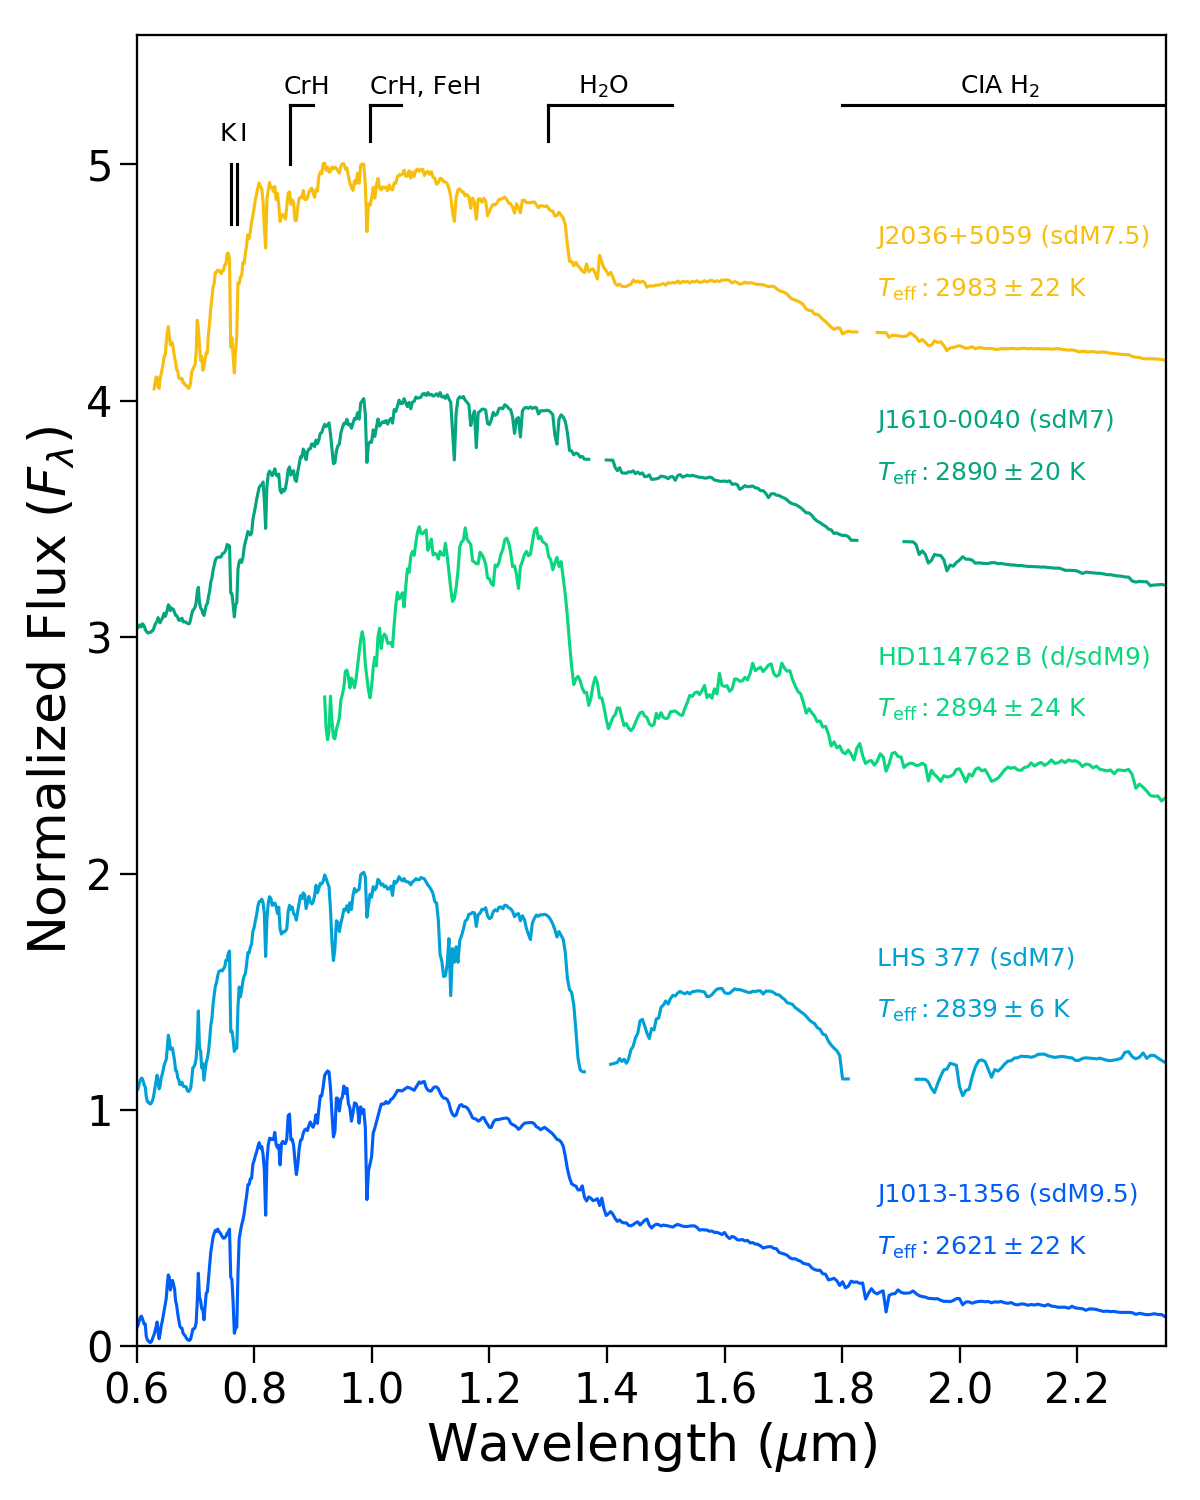
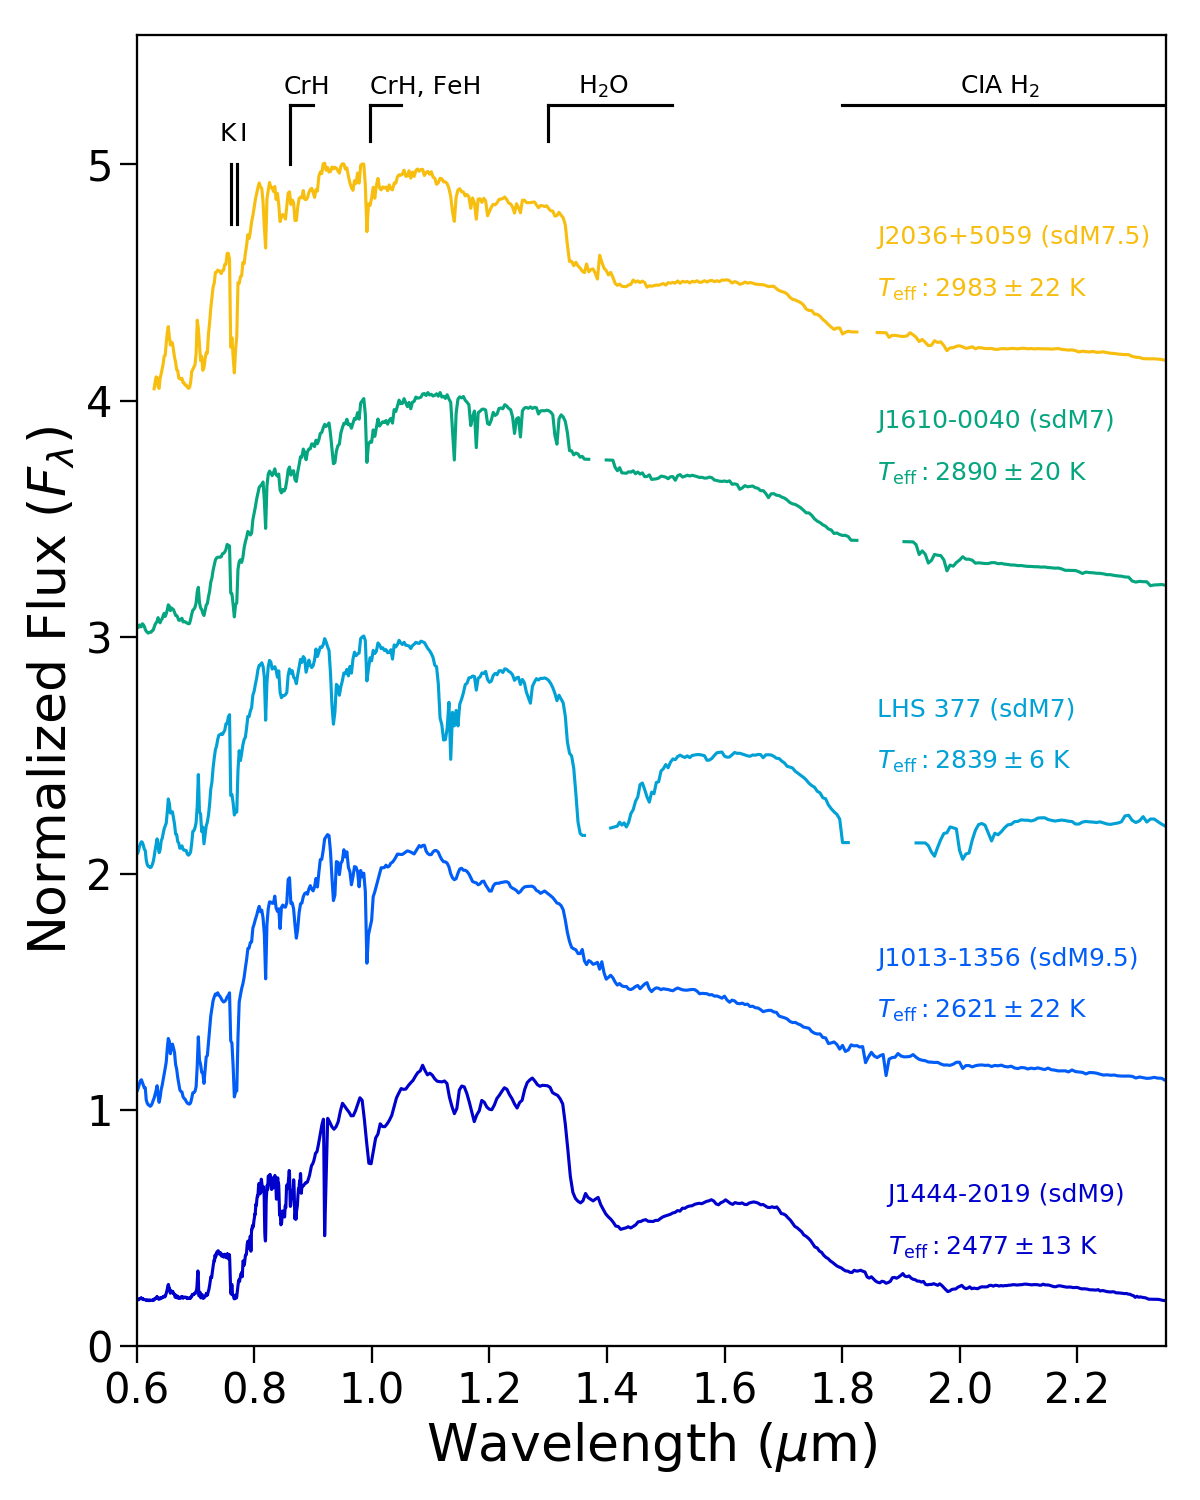
Removed HD114762 B from sample

diff --git a/FullspectraSubdwarfs.py b/FullspectraSubdwarfs.py
@@ -19,8 +19,8 @@ df_0616 = pd.read_csv('Data/Smoothed_data/Eileen_spectra_output/Subdwarfs_correc
 df_1013 = pd.read_csv('Data/Smoothed_data/Eileen_spectra_output/Subdwarfs_corrected/Gaia1013-1356 (M9.5sd) SED_smoothed.txt', sep=" ",
                       comment='#', header=None, names=["w", "f", "err"])
 # df_125614 = pd.read_csv('', sep=" ", comment='#', header=None, names=["w", "f", "err"])
-df_HD = pd.read_csv('Data/Smoothed_data/Eileen_spectra_output/Subdwarfs_corrected/HD114762B (M9sd) SED_smoothed.txt',
-                    sep=" ", comment='#', header=None, names=["w", "f", "err"])
+# df_HD = pd.read_csv('Data/Smoothed_data/Eileen_spectra_output/Subdwarfs_corrected/HD114762B (M9sd) SED_smoothed.txt',
+#                     sep=" ", comment='#', header=None, names=["w", "f", "err"])
 # df_1425 = pd.read_csv('Data/1425+7102 (M8sd) SED.txt', sep=" ", comment='#', header=None, names=["w", "f", "err"])
 df_LHS = pd.read_csv('Data/Smoothed_data/Eileen_spectra_output/Subdwarfs_corrected/Gaia1439+1839 (M7sd) SED_smoothed.txt', sep=" ",
                      comment='#', header=None, names=["w", "f", "err"])
@@ -46,7 +46,7 @@ df_2036 = pd.read_csv('Data/Smoothed_data/Eileen_spectra_output/Subdwarfs_correc
 # -------------------------------------------------------------------------------------
 # ---------------------- Remove Tails ------------------------------------------------
 # -------------------------------------------------------------------------------------
-df_HD = df_HD[(df_HD['w'] > 0.91) & (df_HD['w'] <= 3)]
+# df_HD = df_HD[(df_HD['w'] > 0.91) & (df_HD['w'] <= 3)]
 
 # -------------------------------------------------------------------------------------
 # --------- Normalize the spectra to same as before for 1256 --------------------------
@@ -73,14 +73,14 @@ norm_df_1013 = df_1013['f']/(np.average(norm_region_1013['f']))
 norm_region_LHS = df_LHS[(df_LHS['w'] >= 0.98) & (df_LHS['w'] <= 0.988)]
 norm_df_LHS = df_LHS['f']/(np.average(norm_region_LHS['f']))
 
-# norm_region_1425 = df_1425[(df_1425['w'] >= 0.90) & (df_1425['w'] <= 0.91)] region that works fro 1425 but not HD
+# norm_region_1425 = df_1425[(df_1425['w'] >= 0.90) & (df_1425['w'] <= 0.91)]
 # norm_df_1425 = df_1425['f']/(np.average(norm_region_1425['f']))
 
 norm_region_1610 = df_1610[(df_1610['w'] >= 0.98) & (df_1610['w'] <= 0.988)]
 norm_df_1610 = df_1610['f']/(np.average(norm_region_1610['f']))
 
-norm_region_HD = df_HD[(df_HD['w'] >= 0.98) & (df_HD['w'] <= 0.988)]
-norm_df_HD = df_HD['f']/(np.average(norm_region_HD['f']))
+# norm_region_HD = df_HD[(df_HD['w'] >= 0.98) & (df_HD['w'] <= 0.988)]
+# norm_df_HD = df_HD['f']/(np.average(norm_region_HD['f']))
 
 norm_region_2036 = df_2036[(df_2036['w'] >= 0.98) & (df_2036['w'] <= 0.988)]
 norm_df_2036 = df_2036['f']/(np.average(norm_region_2036['f']))
@@ -92,7 +92,7 @@ norm_df_2036 = df_2036['f']/(np.average(norm_region_2036['f']))
 # --------- Plotting: Comparison of in order of decreasing Teff/ Spt Type -------------
 # -------------------------------------------------------------------------------------
 
-# ------- Not enough detail if in one figure => make two ------------------
+# ------- Not enough detail if in one figure => make two  Ms and Ls------------------
 # ------ Set up figure layout --------
 fig = plt.figure()
 ax1 = fig.add_subplot(111)
@@ -101,7 +101,7 @@ plt.gcf().subplots_adjust(bottom=0.15, left=0.15)
 for axis in ['top', 'bottom', 'left', 'right']:  # Thicken the frame
     ax1.spines[axis].set_linewidth(1.1)
 plt.xlim([0.6, 2.35])
-plt.ylim([0, 5.65])
+plt.ylim([0, 4.65])
 
 # ------ Axes Labels --------
 ax1.tick_params(axis='both', labelsize=20, length=8, width=1.1)
@@ -114,7 +114,6 @@ ax1.plot(df_0532['w'], norm_df_0532, c='indigo')                                
 ax1.plot(df_0616['w'], norm_df_0616 + 1, c='darkviolet')                        # sdL5 1731
 ax1.plot(df_1626['w'], norm_df_1626 + 2, c='#531CF7')                           # sdL4 2158
 ax1.plot(df_1256['w'], norm_df_1256 + 3, c='k')                                 # sdL3.5  2344
-ax1.plot(df_1444['w'], norm_df_1444 + 4, c='mediumblue')                        # sdM9 2359
 # ax1.plot(df_1013['w'], norm_df_1013 + 5, c='#015DF7')                         # sdM9.5 2457
 # ax1.plot(df_LHS['w'], norm_df_LHS + 6, c='#01A1D6')                           # sdM7 2748
 # # ax1.plot(df_1425['w'], norm_df_1425, c='#09D5D6')                           # sdM8 2822      only MIR spectra
@@ -126,62 +125,60 @@ ax1.plot(df_1444['w'], norm_df_1444 + 4, c='mediumblue')                        
 # -------- Label a few features --------------
 KII = pd.DataFrame()
 KII['x'] = [0.76, 0.76]
-KII['y'] = [5, 5.25]
+KII['y'] = [4, 4.25]
 ax1.plot(KII['x'], KII['y'], color='k')
 KII2 = pd.DataFrame()
 KII2['x'] = [0.7699, 0.7699]
-KII2['y'] = [5, 5.25]
+KII2['y'] = [4, 4.25]
 ax1.plot(KII2['x'], KII2['y'], color='k')
-ax1.annotate('K$\,$I', xy=(0.74, 5.3), color='k', fontsize=12)
+ax1.annotate('K$\,$I', xy=(0.74, 4.3), color='k', fontsize=12)
 
 CrH = pd.DataFrame()
 CrH['x'] = [0.8611, 0.9]
-CrH['y'] = [5.25, 5.25]
+CrH['y'] = [4.25, 4.25]
 ax1.plot(CrH['x'], CrH['y'], color='k')
 CrHd = pd.DataFrame()
 CrHd['x'] = [0.8611, 0.8611]
-CrHd['y'] = [5, 5.25]
+CrHd['y'] = [4, 4.25]
 ax1.plot(CrHd['x'], CrHd['y'], color='k')
-ax1.annotate('CrH', xy=(0.85, 5.3), color='k', fontsize=12)
+ax1.annotate('CrH', xy=(0.85, 4.3), color='k', fontsize=12)
 
 CrH2 = pd.DataFrame()
 CrH2['x'] = [0.9969, 1.05]
-CrH2['y'] = [5.35, 5.35]
+CrH2['y'] = [4.35, 4.35]
 ax1.plot(CrH2['x'], CrH2['y'], color='k')
 CrHd2 = pd.DataFrame()
 CrHd2['x'] = [0.9969, 0.9969]
-CrHd2['y'] = [5.05, 5.35]
+CrHd2['y'] = [4.05, 4.35]
 ax1.plot(CrHd2['x'], CrHd2['y'], color='k')
-ax1.annotate('CrH, FeH', xy=(0.996, 5.38), color='k', fontsize=12)
+ax1.annotate('CrH, FeH', xy=(0.996, 4.38), color='k', fontsize=12)
 
 H2O = pd.DataFrame()
 H2O['x'] = [1.3, 1.51]
-H2O['y'] = [5.35, 5.35]
+H2O['y'] = [4.35, 4.35]
 ax1.plot(H2O['x'], H2O['y'], color='k')
 H2Od = pd.DataFrame()
 H2Od['x'] = [1.3, 1.3]
-H2Od['y'] = [5.2, 5.35]
+H2Od['y'] = [4.2, 4.35]
 ax1.plot(H2Od['x'], H2Od['y'], color='k')
-ax1.annotate('H$_\mathrm{2} $O', xy=(1.35, 5.4), color='k', fontsize=12)
+ax1.annotate('H$_\mathrm{2} $O', xy=(1.35, 4.4), color='k', fontsize=12)
 
 CIA = pd.DataFrame()
 CIA['x'] = [1.8, 2.8]
-CIA['y'] = [5.35, 5.35]
+CIA['y'] = [4.35, 4.35]
 ax1.plot(CIA['x'], CIA['y'], color='k')
-ax1.annotate('CIA H$_\mathrm{2} $', xy=(2, 5.4), color='k', fontsize=12)
+ax1.annotate('CIA H$_\mathrm{2} $', xy=(2, 4.4), color='k', fontsize=12)
 
 # ------- Label Sources -------------
 # not alot of space to label
 ax1.text(0.73, 0.12, 'J0532+8246 (sdL7)', transform=ax1.transAxes, color='indigo', fontsize=12)
 ax1.text(0.73, 0.08, '$T_\mathrm{eff}: 1677 \pm 25$ K ', transform=ax1.transAxes, color='indigo',fontsize=12)
-ax1.text(0.73, 0.28, 'J0616-6407 (sdL5)', transform=ax1.transAxes, color='darkviolet', fontsize=12)
-ax1.text(0.73, 0.24, '$T_\mathrm{eff}: 1720 \pm 280$ K ', transform=ax1.transAxes, color='darkviolet',fontsize=12)
-ax1.text(0.73, 0.44, 'J1626+3925 (sdL4)', transform=ax1.transAxes, color='#531CF7', fontsize=12)
-ax1.text(0.73, 0.4, '$T_\mathrm{eff}: 2148 \pm 14$ K', transform=ax1.transAxes, color='#531CF7', fontsize=12)
-ax1.text(0.73, 0.6, 'J1256-0224 (sdL3.5)', transform=ax1.transAxes, color='k', fontsize=12)
-ax1.text(0.73, 0.56, '$T_\mathrm{eff}: 2307 \pm 71$ K', transform=ax1.transAxes, color='k', fontsize=12)
-ax1.text(0.73, 0.82, 'J1444-2019 (sdM9)', transform=ax1.transAxes, color='mediumblue', fontsize=12)
-ax1.text(0.73, 0.78, '$T_\mathrm{eff}: 2477 \pm 13$ K', transform=ax1.transAxes, color='mediumblue', fontsize=12)
+ax1.text(0.73, 0.32, 'J0616-6407 (sdL5)', transform=ax1.transAxes, color='darkviolet', fontsize=12)
+ax1.text(0.73, 0.28, '$T_\mathrm{eff}: 1720 \pm 280$ K ', transform=ax1.transAxes, color='darkviolet',fontsize=12)
+ax1.text(0.73, 0.52, 'J1626+3925 (sdL4)', transform=ax1.transAxes, color='#531CF7', fontsize=12)
+ax1.text(0.73, 0.48, '$T_\mathrm{eff}: 2148 \pm 14$ K', transform=ax1.transAxes, color='#531CF7', fontsize=12)
+ax1.text(0.73, 0.72, 'J1256-0224 (sdL3.5)', transform=ax1.transAxes, color='k', fontsize=12)
+ax1.text(0.73, 0.68, '$T_\mathrm{eff}: 2307 \pm 71$ K', transform=ax1.transAxes, color='k', fontsize=12)
 
 plt.tight_layout()
 plt.savefig('Plots/Subdwarfs_secondpannel.png', dpi=150)
@@ -203,10 +200,11 @@ plt.xlabel('Wavelength ($\mu$m)', fontsize=25)
 plt.ylabel('Normalized Flux ($F_\lambda$)', fontsize=25)
 
 # -------- Add data -----------
-ax1.plot(df_1013['w'], norm_df_1013, c='#015DF7')                         # sdM9.5 2457
-ax1.plot(df_LHS['w'], norm_df_LHS + 1, c='#01A1D6')                       # sdM7 2748
+ax1.plot(df_1444['w'], norm_df_1444, c='mediumblue')                        # sdM9 2359
+ax1.plot(df_1013['w'], norm_df_1013 + 1, c='#015DF7')                         # sdM9.5 2457
+ax1.plot(df_LHS['w'], norm_df_LHS + 2, c='#01A1D6')                       # sdM7 2748
 # ax1.plot(df_1425['w'], norm_df_1425 + 2, c='#09D5D6')                   # sdM8 2822
-ax1.plot(df_HD['w'], norm_df_HD + 2, c='#09D67E')                         # sd--IRM9 2859
+#ax1.plot(df_HD['w'], norm_df_HD + 2, c='#09D67E')                         # sd--IRM9 2859
 ax1.plot(df_1610['w'], norm_df_1610 + 3, c='#04A57F')                     # sdM7 2878
 ax1.plot(df_2036['w'], norm_df_2036 + 4, c='#F7BE0F')                     # sdM7.5 3021
 # ax1.plot(df_125614['w'], norm_df_125614, c='#C56201')                         # sdM8
@@ -259,12 +257,14 @@ ax1.plot(CIA['x'], CIA['y'], color='k')
 ax1.annotate('CIA H$_\mathrm{2} $', xy=(2, 5.3), color='k', fontsize=12)
 
 # ------- Label Sources -------------
-ax1.text(0.72, 0.11, 'J1013-1356 (sdM9.5)', transform=ax1.transAxes, color='#015DF7', fontsize=12)
-ax1.text(0.72, 0.07, '$T_\mathrm{eff}: 2621 \pm 22$ K', transform=ax1.transAxes, color='#015DF7', fontsize=12)
-ax1.text(0.72, 0.29, 'LHS 377 (sdM7)', transform=ax1.transAxes, color='#01A1D6',  fontsize=12)
-ax1.text(0.72, 0.25, '$T_\mathrm{eff}: 2839 \pm 6$ K', transform=ax1.transAxes, color='#01A1D6', fontsize=12)
-ax1.text(0.72, 0.52, 'HD114762$\,$B (d/sdM9)', transform=ax1.transAxes, color='#09D67E', fontsize=12)
-ax1.text(0.72, 0.48, '$T_\mathrm{eff}: 2894 \pm 24$ K', transform=ax1.transAxes, color='#09D67E', fontsize=12)
+ax1.text(0.73, 0.11, 'J1444-2019 (sdM9)', transform=ax1.transAxes, color='mediumblue', fontsize=12)
+ax1.text(0.73, 0.07, '$T_\mathrm{eff}: 2477 \pm 13$ K', transform=ax1.transAxes, color='mediumblue', fontsize=12)
+ax1.text(0.72, 0.29, 'J1013-1356 (sdM9.5)', transform=ax1.transAxes, color='#015DF7', fontsize=12)
+ax1.text(0.72, 0.25, '$T_\mathrm{eff}: 2621 \pm 22$ K', transform=ax1.transAxes, color='#015DF7', fontsize=12)
+ax1.text(0.72, 0.48, 'LHS 377 (sdM7)', transform=ax1.transAxes, color='#01A1D6',  fontsize=12)
+ax1.text(0.72, 0.44, '$T_\mathrm{eff}: 2839 \pm 6$ K', transform=ax1.transAxes, color='#01A1D6', fontsize=12)
+# ax1.text(0.72, 0.52, 'HD114762$\,$B (d/sdM9)', transform=ax1.transAxes, color='#09D67E', fontsize=12)
+# ax1.text(0.72, 0.48, '$T_\mathrm{eff}: 2894 \pm 24$ K', transform=ax1.transAxes, color='#09D67E', fontsize=12)
 ax1.text(0.72, 0.70, 'J1610-0040 (sdM7)', transform=ax1.transAxes, color='#04A57F', fontsize=12)
 ax1.text(0.72, 0.66, '$T_\mathrm{eff}: 2890 \pm 20$ K', transform=ax1.transAxes, color='#04A57F', fontsize=12)
 ax1.text(0.72, 0.84, 'J2036+5059 (sdM7.5)', transform=ax1.transAxes, color='#F7BE0F', fontsize=12)
